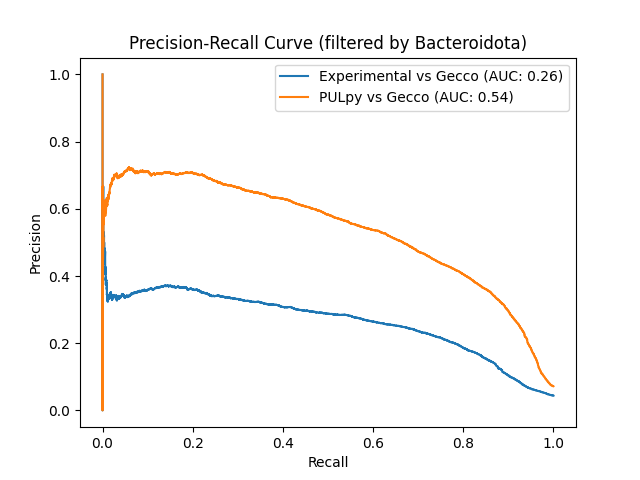
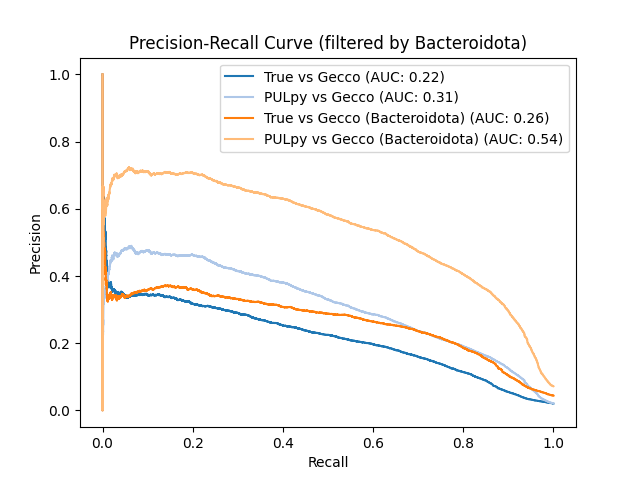
add plots of gecco evals

diff --git a/src/scripts/evaluate_predictions.py b/src/scripts/evaluate_predictions.py
@@ -12,15 +12,27 @@ class PredictionEvaluator:
     Currently aggregates predictions across all folds.
     """
 
-    def __init__(self, labeled_results_path, clusters_table_path, pulpy_annotations_path):
+    def __init__(self, labeled_results_path, clusters_table_path, pulpy_annotations_path, k):
+        self.classification_reports = []
+        self.average_precision_scores = []
         labeled_results_list = []
-        for i in range(5):
+
+        for i in range(k):
             labeled_results = polars.read_csv(f"{labeled_results_path}_{i}.tsv", separator='\t')
             labeled_results_list.append(labeled_results)
+            self.labeled_results = labeled_results
+            self.get_pulpy_annotations(pulpy_annotations_path)
+            self.clusters_table = polars.read_csv(clusters_table_path, separator='\t', infer_schema_length=600)
+            self.set_evaluation_data()
+            self.filter = None
+            print("Fold ", i)
+            self.evaluate()
+            self.classification_reports.append(classification_report(self.true, self.pred, output_dict=True))
+            self.average_precision_scores.append(average_precision_score(self.true, self.p_pred))
 
         self.labeled_results = polars.concat(labeled_results_list)
-        self.clusters_table = polars.read_csv(clusters_table_path, separator='\t', infer_schema_length=600)
         self.get_pulpy_annotations(pulpy_annotations_path)
+        self.clusters_table = polars.read_csv(clusters_table_path, separator='\t', infer_schema_length=600)
         self.set_evaluation_data()
         self.filter = None
 
@@ -79,16 +91,24 @@ class PredictionEvaluator:
         print(classification_report(self.pulpy_pred, self.pred))
 
 
-    def precision_recall_curve(self):
-        # for true vs pred
-        precision, recall, thresholds = precision_recall_curve(self.true, self.p_pred)
-        auc = average_precision_score(self.true, self.p_pred)
-        plt.plot(recall, precision, label="Experimental vs Gecco (AUC: {:.2f})".format(auc))
+    def plot_pr(self, true, pred, label, color):
+        precision, recall, thresholds = precision_recall_curve(true, pred)
+        auc = average_precision_score(true, pred)
+        plt.plot(recall, precision, label=label + " (AUC: {:.2f})".format(auc), color=color)
 
+
+    def precision_recall_curve(self):
+        # use similar colors for associated curves
+        colors = plt.cm.tab20.colors
+        # for true vs pred
+        self.plot_pr(self.true, self.p_pred, "True vs Gecco", colors[0])
         # for pulpy vs pred
-        precision, recall, thresholds = precision_recall_curve(self.pulpy_pred, self.p_pred)
-        auc = average_precision_score(self.pulpy_pred, self.p_pred)
-        plt.plot(recall, precision, label="PULpy vs Gecco (AUC: {:.2f})".format(auc))
+        self.plot_pr(self.pulpy_pred, self.p_pred, "PULpy vs Gecco", colors[1])
+
+        # then filter by phylum and plot again
+        self.filter_phylum("Bacteroidota")
+        self.plot_pr(self.true, self.p_pred, "True vs Gecco (Bacteroidota)", colors[2])
+        self.plot_pr(self.pulpy_pred, self.p_pred, "PULpy vs Gecco (Bacteroidota)", colors[3])
 
         # add labels and legend
         plt.xlabel("Recall")
@@ -149,7 +169,7 @@ class PredictionEvaluator:
             "PULpy": "green"
         }
         for start, end, y, label in features:
-            axs.plot([start, end], [y, y+0.9], label=label, color=colors[label], linewidth=3)
+            axs.fill_betweenx([y, y + 0.9], start, end, color=colors[label], alpha=1)
 
         axs.set_ylim(0, 3)
         axs.set_yticks([0.25, 1.25, 2.25], ["Experimental", "Predicted", "PULpy"])
@@ -159,6 +179,41 @@ class PredictionEvaluator:
         plt.clf()
 
 
+    def f1_per_genome(self):
+        all_labels = self.labeled_results
+        unique_genomes = all_labels.select("sequence_id").unique().to_series().to_list()
+        for genome in unique_genomes:
+            genome_labels = all_labels.filter(polars.col("sequence_id") == genome)
+            true = genome_labels.select(polars.col("is_PUL")).fill_null(False).to_series().to_list()
+            pred = genome_labels.select(polars.col("is_PUL_pred")).fill_null(False).to_series().to_list()
+            report = classification_report(true, pred, output_dict=True, zero_division=0)
+            f1_score_false = report["False"]["f1-score"]
+            f1_score_true = report["True"]["f1-score"]
+            print(f"Genome: {genome}, F1 Score (False): {f1_score_false:.2f}, F1 Score (True): {f1_score_true:.2f}")
+            print(f"Total predicted: {sum(pred)}, Total true: {sum(true)}\n")
+
+    
+    def f1_per_fold(self):
+        f1_scores_per_fold = []
+        for i, report in enumerate(self.classification_reports):
+            f1_score_false = report["False"]["f1-score"]
+            f1_score_true = report["True"]["f1-score"]
+            f1_scores_per_fold.append((f1_score_false, f1_score_true))
+
+        # plot the F1 scores per fold
+        folds = np.arange(len(self.classification_reports))
+        f1_false = [score[0] for score in f1_scores_per_fold]
+        f1_true = [score[1] for score in f1_scores_per_fold]
+        plt.figure()
+        plt.plot(folds, self.average_precision_scores, label="Average Precision Score", marker='o', color='purple')
+        plt.plot(folds, f1_true, label="F1 Score (True)", marker='o')
+        plt.xlabel("Fold")
+        plt.ylabel("Score")
+        plt.title("F1 and RC-AUC Scores per fold")
+        plt.legend()
+        plt.savefig("src/data/plots/f1_scores_per_fold.png")
+        plt.clf()
+
 
 if __name__ == "__main__":
     results_path = "src/data/results/gecco"
@@ -167,10 +222,13 @@ if __name__ == "__main__":
     evaluator = PredictionEvaluator(
         f"{results_path}/labeled_results",
         "src/data/results/cblaster_results.tsv",
-        f"{pulpy_annotations_path}"
+        f"{pulpy_annotations_path}",
+        k=5
     )
-    evaluator.filter_phylum("Bacteroidota")
-    evaluator.lengths_histogram()
-    evaluator.precision_recall_curve()
-    evaluator.evaluate()
-    #evaluator.visualize_predictions("FP476056")
+    evaluator.f1_per_fold()
+#    evaluator.filter_phylum("Bacteroidota")
+#    evaluator.lengths_histogram()
+#    evaluator.precision_recall_curve()
+#    evaluator.evaluate()
+#    evaluator.f1_per_genome()
+#    evaluator.visualize_predictions("NC_008261")
